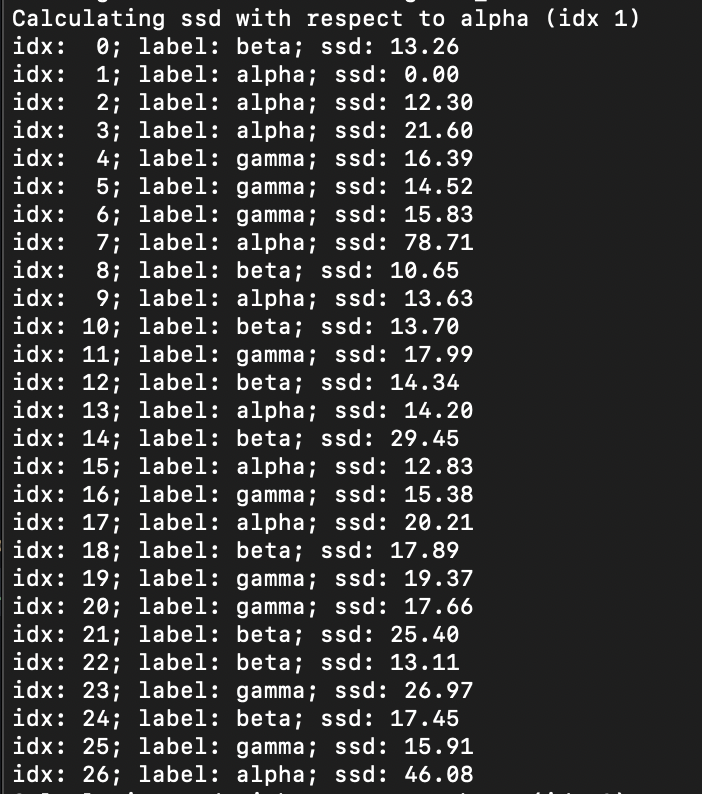
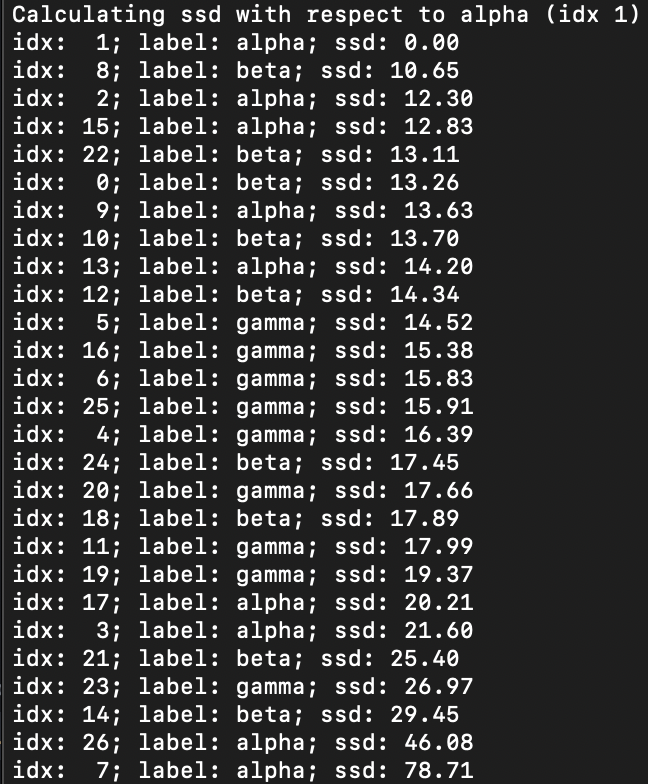
task3d sorted

Changed region(s): [[0.0, 0.0, 0.9259, 1.0], [0.9568, 0.0, 0.9877, 0.0306]]

diff --git a/project5/src/greek_mnist_embedding.py b/project5/src/greek_mnist_embedding.py
@@ -103,19 +103,22 @@ def main(argv):
     print("Calculating ssd with respect to alpha (idx 1)")
     alpha_exp = greek_data_output[1,:]
     alpha_ssd = ssd(alpha_exp, greek_data_output)
-    for i in range(len(greek_labels)):
+    alpha_argsort = np.argsort(alpha_ssd)
+    for i in alpha_argsort:
         print("idx: %2d; label: %s; ssd: %.2f"%(i, idx2letter[greek_labels[i]], alpha_ssd[i]))
 
     print("Calculating ssd with respect to beta (idx 0)")
     beta_exp = greek_data_output[0,:]
     beta_ssd = ssd(beta_exp, greek_data_output)
-    for i in range(len(greek_labels)):
+    beta_argsort = np.argsort(beta_ssd)
+    for i in beta_argsort:
         print("idx: %2d; label: %s; ssd: %.2f"%(i, idx2letter[greek_labels[i]], beta_ssd[i]))
 
     print("Calculating ssd with respect to gamma (idx 4)")
     gamma_exp = greek_data_output[4,:]
     gamma_ssd = ssd(gamma_exp, greek_data_output)
-    for i in range(len(greek_labels)):
+    gamma_argsort = np.argsort(gamma_ssd)
+    for i in gamma_argsort:
         print("idx: %2d; label: %s; ssd: %.2f"%(i, idx2letter[greek_labels[i]], gamma_ssd[i]))
 
 
